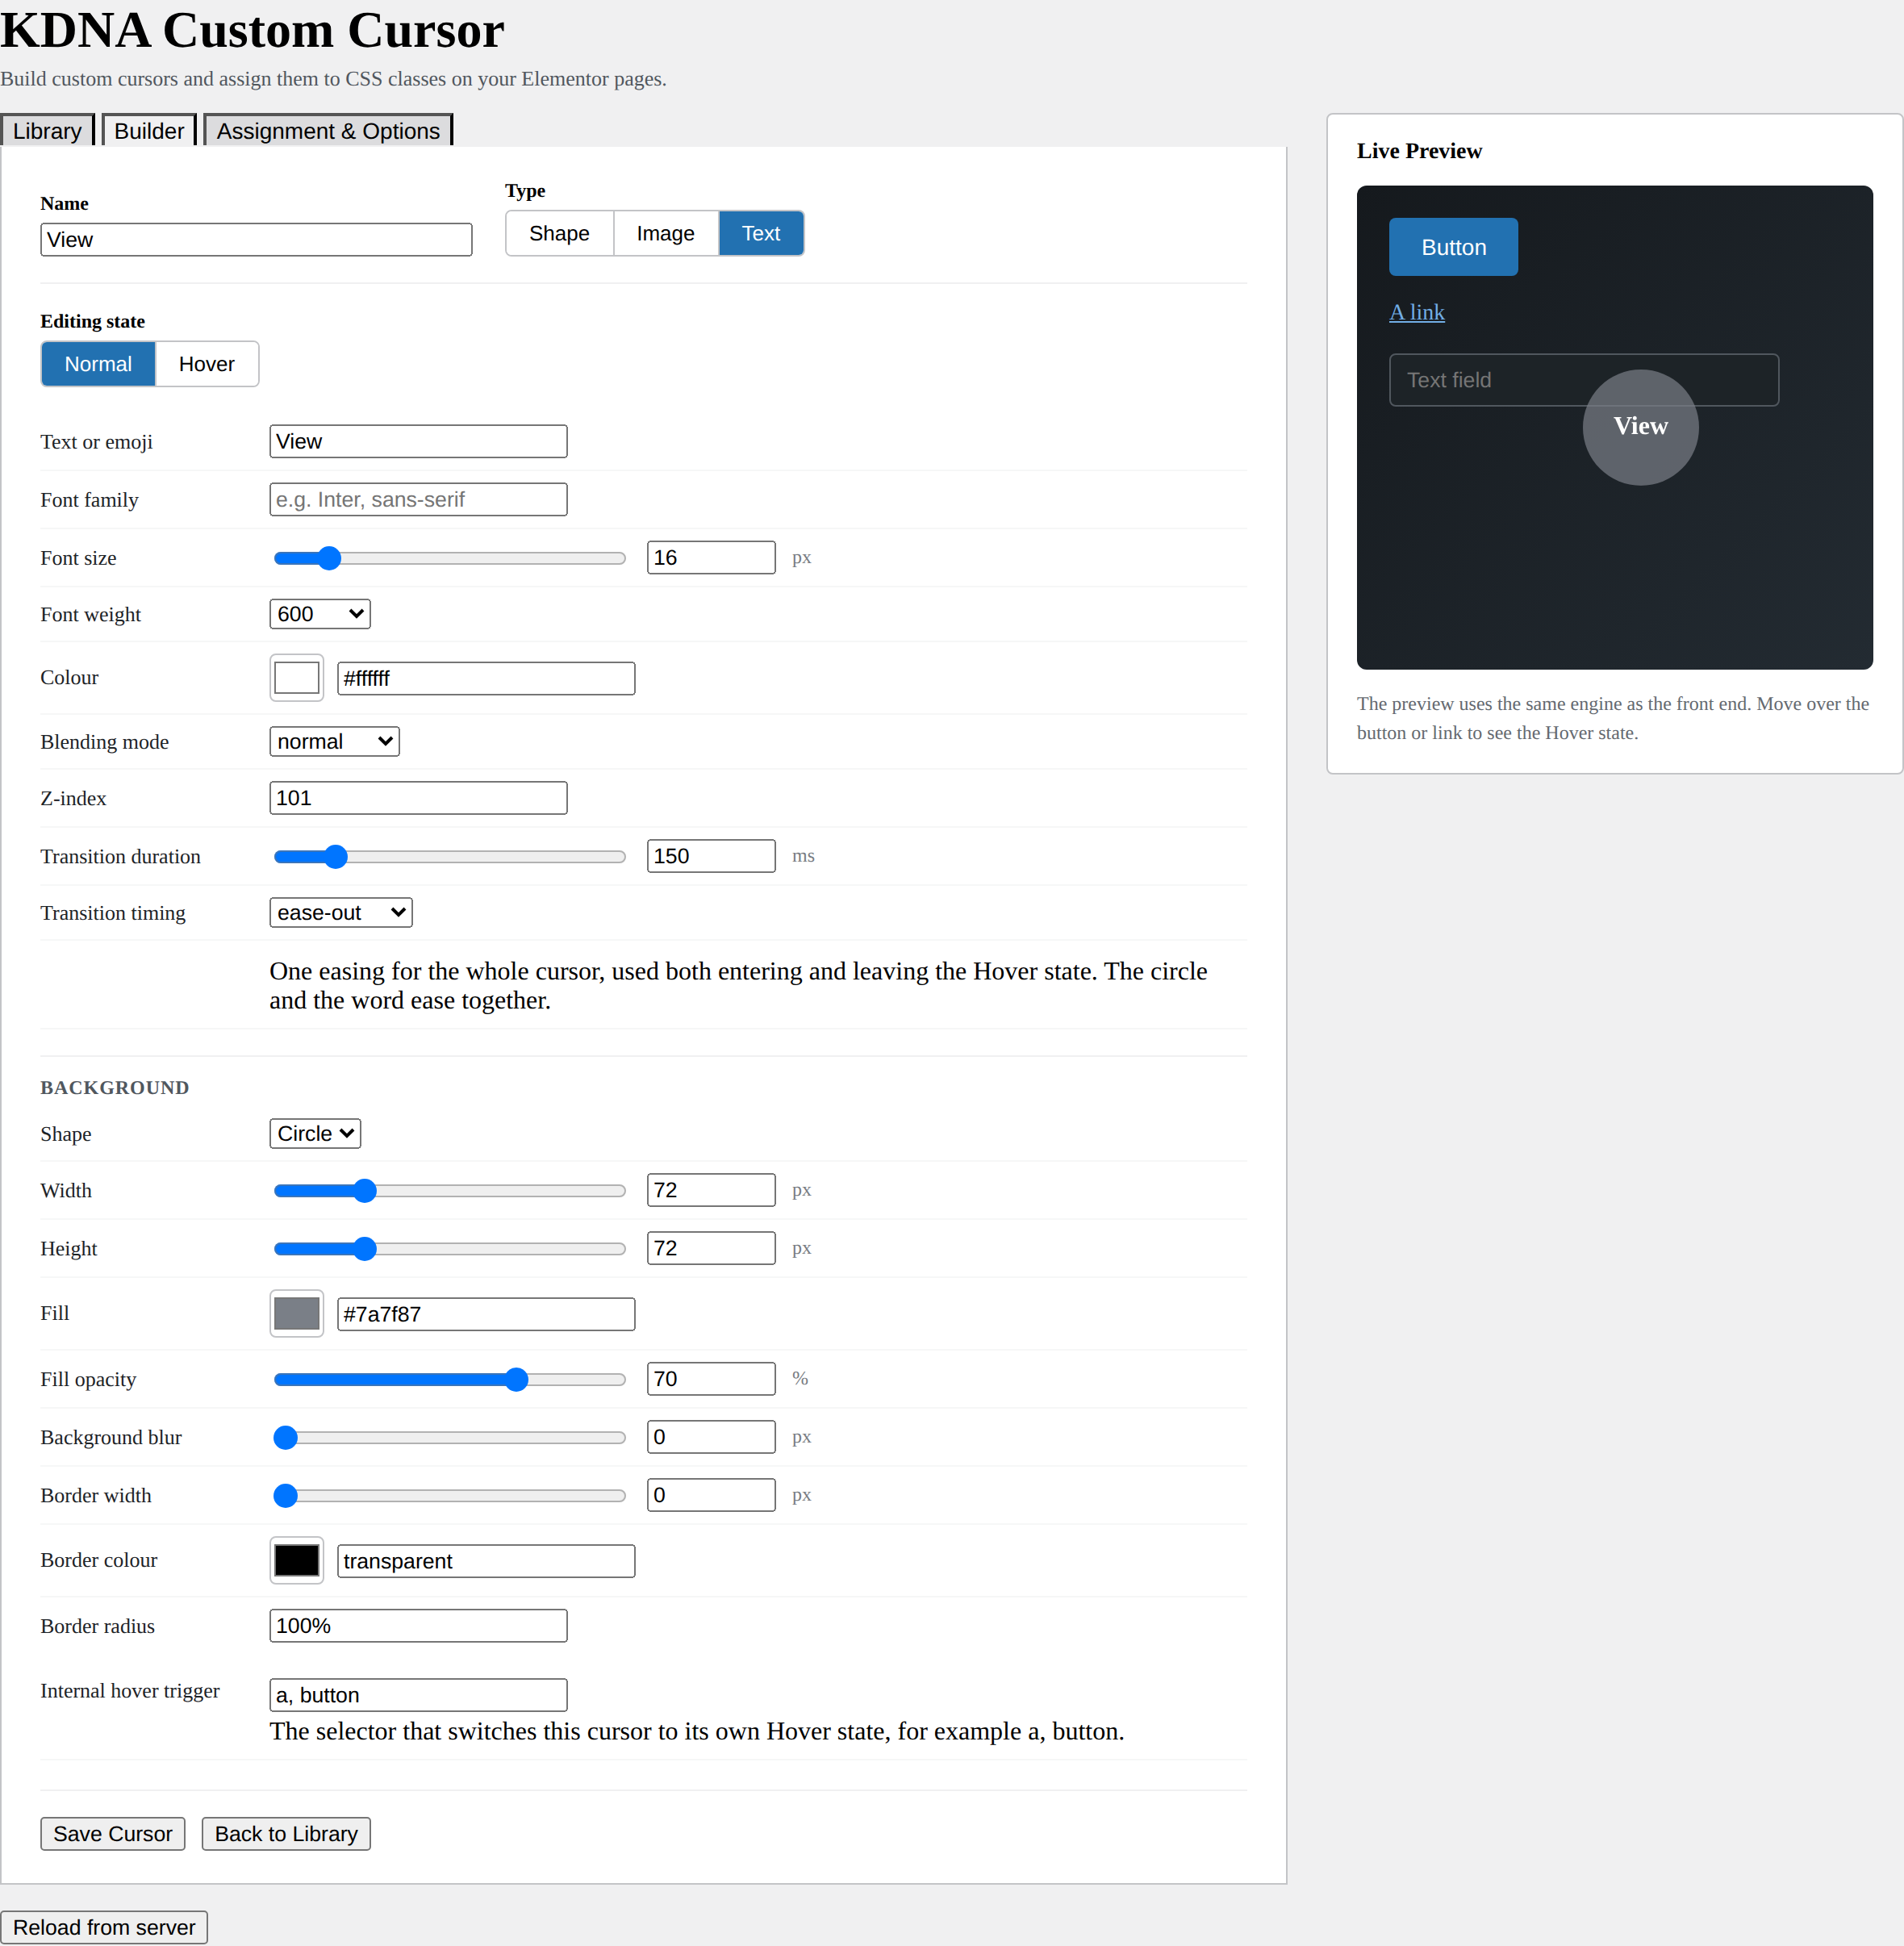
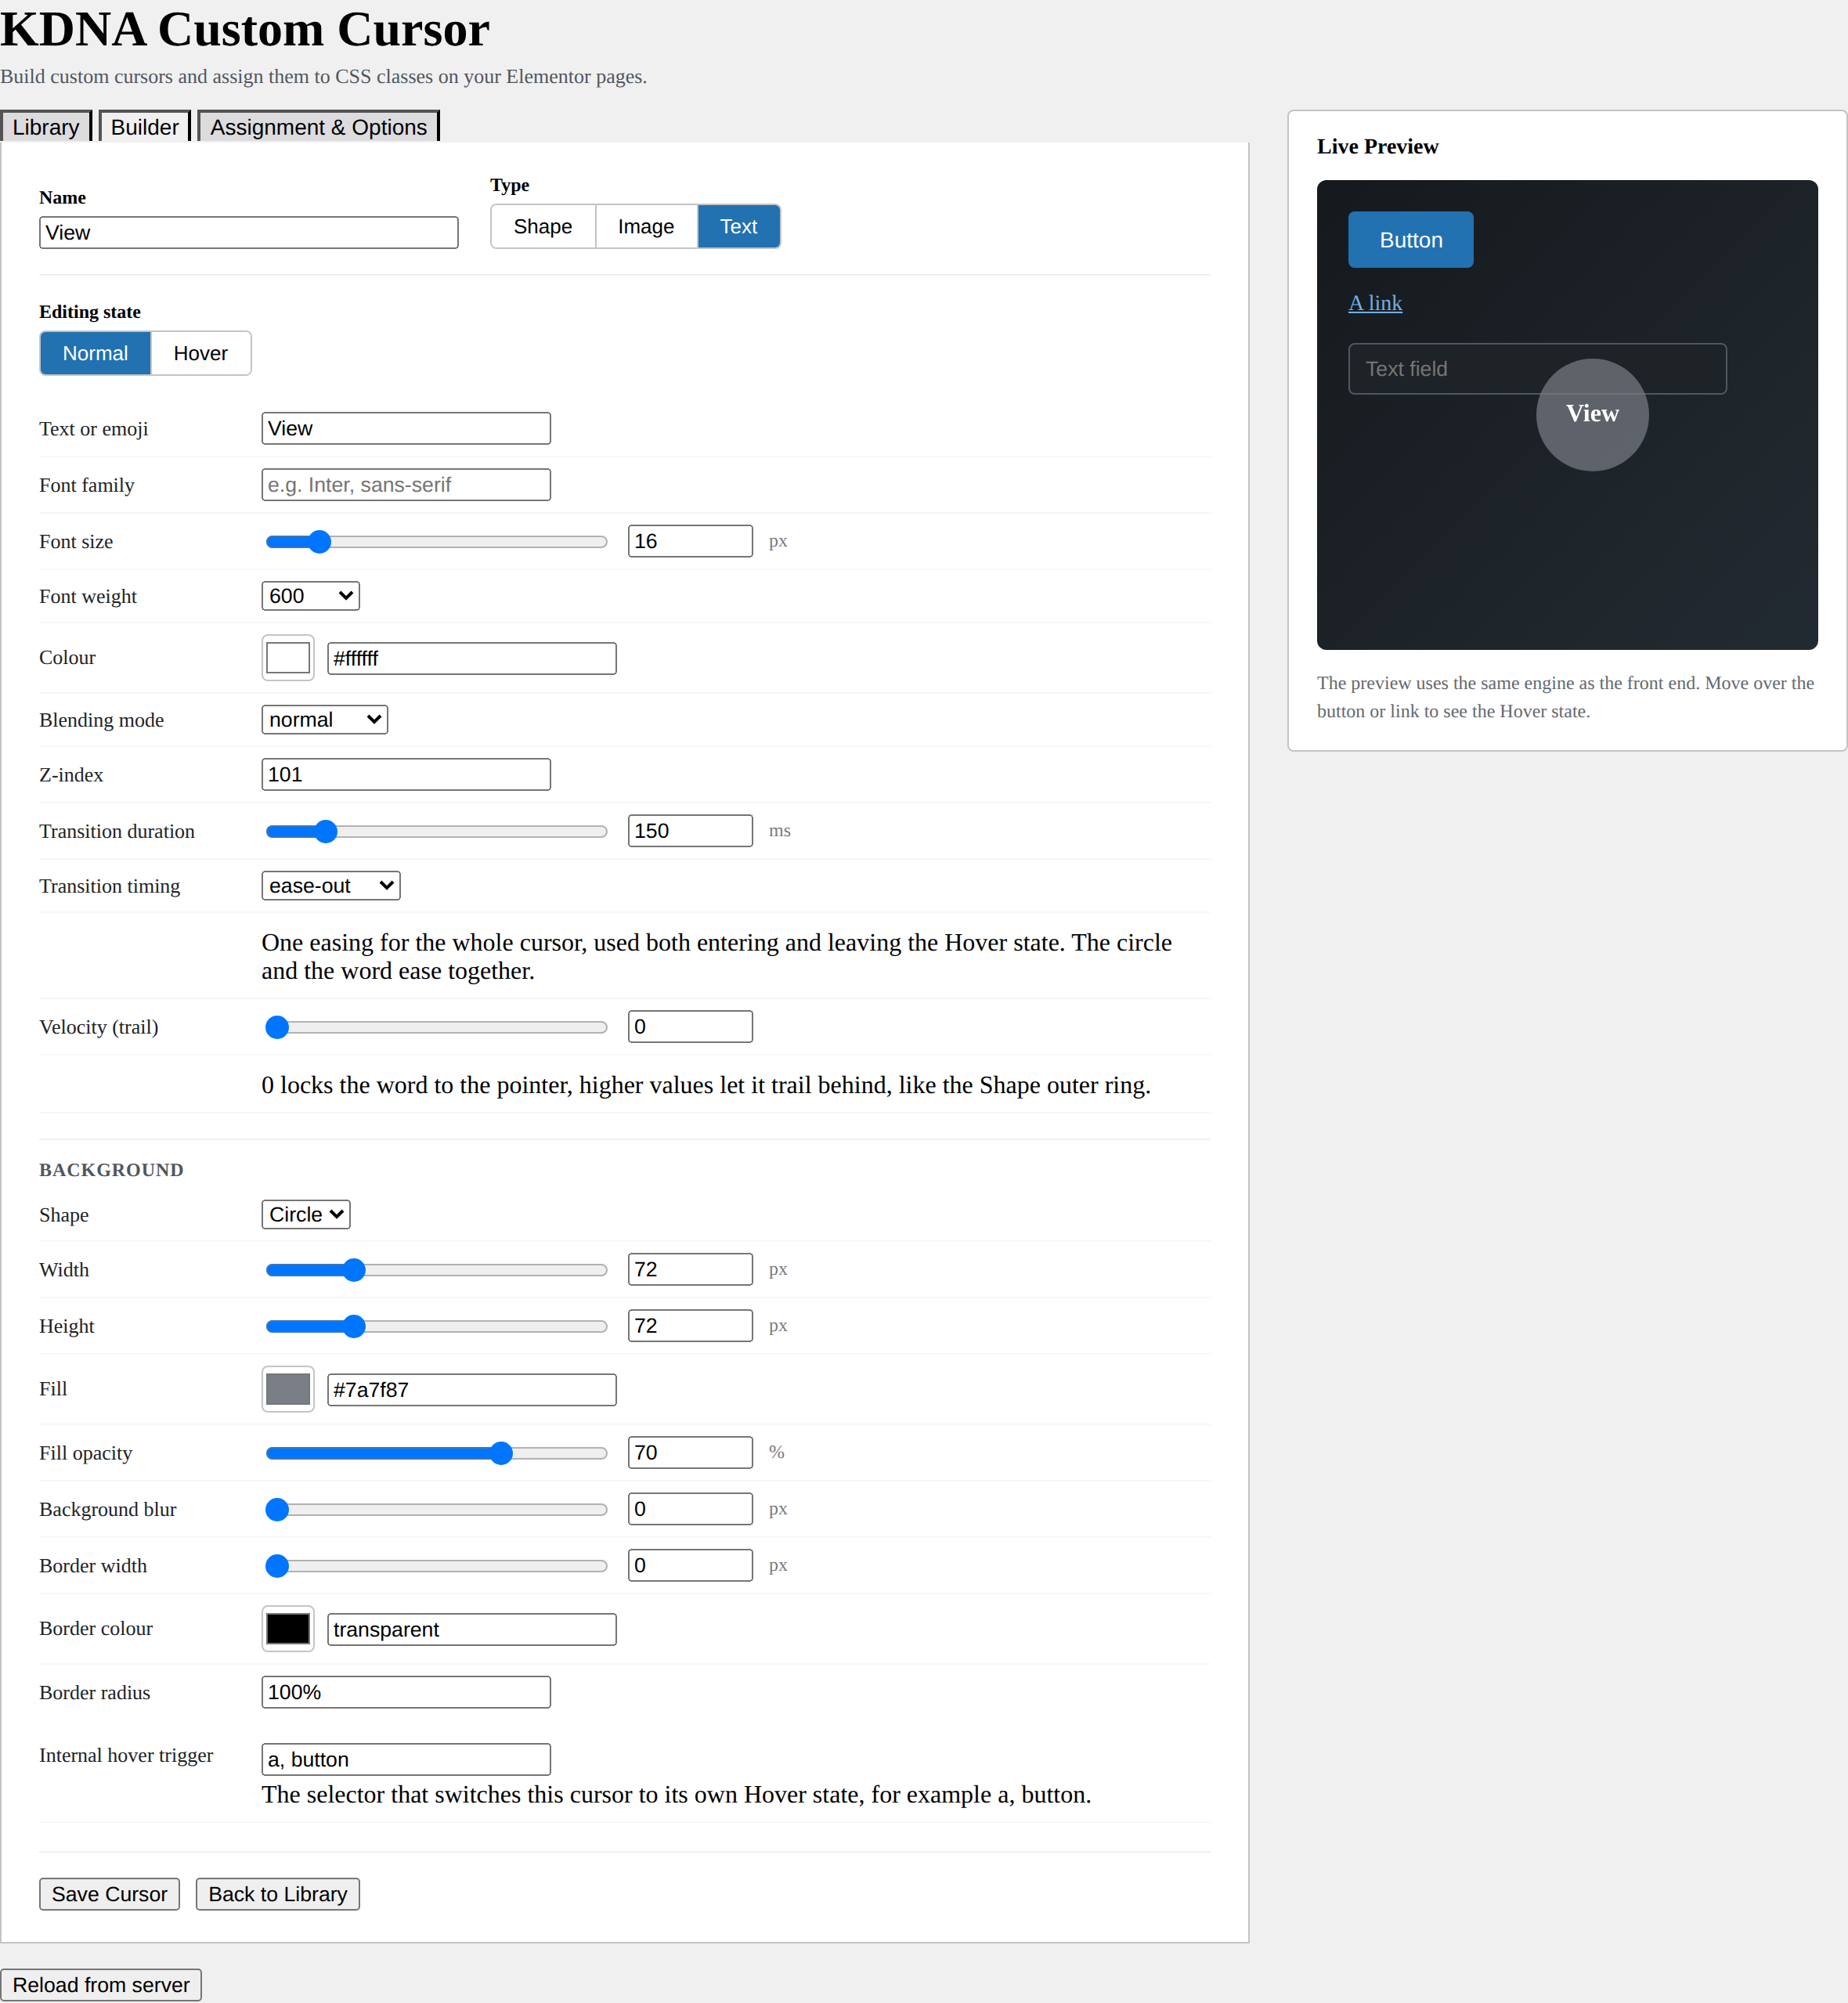
v1.0.4: add Velocity (trail) control to Text and Image cursors
Text and Image cursors gain a Velocity (trail) slider so the word, emoji
or image can lag behind the pointer and catch up, the same trailing
effect the Shape outer ring has. It runs through the existing single
requestAnimationFrame loop and LERP smoothing, and is taken from the
cursor's base state so it is one setting for the whole cursor. A velocity
of 0 keeps the old behaviour, locking the cursor to the pointer.

This answers why a Text cursor with a transition still tracked the
pointer exactly: the transition only eases the size and colour change
between the Normal and Hover states, never the position, so a trail needs
its own control rather than a longer transition.

- engine: ImageCursor and TextCursor place() now follow the smoothed
  (ox, oy) point and read velocity from the base block
- data: sanitise and clamp velocity (0..1) on image and text blocks
- admin: velocity defaults, ensureDefaults backfill, and a stepped
  slider bound to the base block in both builders
- docs: guide steps, control reference, regenerated images and PDF
- bump to 1.0.4, README changelog, refreshed plugin zip

Claude-Session: https://claude.ai/code/session_01XzaF5q1ByyvoBwvpuaazcC

diff --git a/kdna-custom-cursor/assets/js/kdna-cc-engine.js b/kdna-custom-cursor/assets/js/kdna-cc-engine.js
@@ -434,7 +434,7 @@
 		this.img.style.display = 'block';
 		root.appendChild( this.img );
 
-		// Image cursors lock to the pointer, there is no trailing ring.
+		// Trail amount. 0 locks to the pointer, higher values lag behind it.
 		this.velocity = 0;
 	}
 
@@ -455,18 +455,23 @@
 		// the hover in and the hover out use the same easing.
 		var base = cursor.image || {};
 		applyTransition( this.img, base.transitionDuration, base.transitionTiming, IMAGE_TRANSITION_PROPS );
-		this.velocity = 0;
+		// Trail amount, taken from the base block. 0 locks to the pointer.
+		this.velocity = clamp( base.velocity, 0, 1 );
 	};
 
 	/**
-	 * Position the image at the pointer.
+	 * Position the image. It follows the trailing point so a velocity above 0
+	 * lets it lag behind the pointer, like the Shape outer ring. The first two
+	 * arguments are the raw pointer, the second two are the smoothed point.
 	 *
-	 * @param {number} px Pointer x.
-	 * @param {number} py Pointer y.
+	 * @param {number} tx Pointer x.
+	 * @param {number} ty Pointer y.
+	 * @param {number} ox Trailing x.
+	 * @param {number} oy Trailing y.
 	 * @return {void}
 	 */
-	ImageCursor.prototype.place = function ( px, py ) {
-		this.img.style.transform = 'translate(' + px + 'px,' + py + 'px) translate(-50%, -50%)';
+	ImageCursor.prototype.place = function ( tx, ty, ox, oy ) {
+		this.img.style.transform = 'translate(' + ox + 'px,' + oy + 'px) translate(-50%, -50%)';
 	};
 
 	/**
@@ -512,7 +517,7 @@
 		this.el.style.display = 'inline-flex';
 		root.appendChild( this.el );
 
-		// Text cursors lock to the pointer, there is no trailing ring.
+		// Trail amount. 0 locks to the pointer, higher values lag behind it.
 		this.velocity = 0;
 	}
 
@@ -534,18 +539,23 @@
 		// the word ease together.
 		var base = cursor.text || {};
 		applyTransition( this.el, base.transitionDuration, base.transitionTiming, TEXT_TRANSITION_PROPS );
-		this.velocity = 0;
+		// Trail amount, taken from the base block. 0 locks to the pointer.
+		this.velocity = clamp( base.velocity, 0, 1 );
 	};
 
 	/**
-	 * Position the text at the pointer.
+	 * Position the text. It follows the trailing point so a velocity above 0
+	 * lets it lag behind the pointer, like the Shape outer ring. The first two
+	 * arguments are the raw pointer, the second two are the smoothed point.
 	 *
-	 * @param {number} px Pointer x.
-	 * @param {number} py Pointer y.
+	 * @param {number} tx Pointer x.
+	 * @param {number} ty Pointer y.
+	 * @param {number} ox Trailing x.
+	 * @param {number} oy Trailing y.
 	 * @return {void}
 	 */
-	TextCursor.prototype.place = function ( px, py ) {
-		this.el.style.transform = 'translate(' + px + 'px,' + py + 'px) translate(-50%, -50%)';
+	TextCursor.prototype.place = function ( tx, ty, ox, oy ) {
+		this.el.style.transform = 'translate(' + ox + 'px,' + oy + 'px) translate(-50%, -50%)';
 	};
 
 	/**

diff --git a/kdna-custom-cursor/admin/js/kdna-cc-admin.js b/kdna-custom-cursor/admin/js/kdna-cc-admin.js
@@ -80,7 +80,7 @@
 	 * @return {Object} The default image block.
 	 */
 	function defaultImageBlock() {
-		return { url: '', attachmentId: 0, width: 40, height: 40, blendMode: 'normal', zIndex: 100, transitionDuration: 150, transitionTiming: 'ease-out' };
+		return { url: '', attachmentId: 0, width: 40, height: 40, blendMode: 'normal', zIndex: 100, transitionDuration: 150, transitionTiming: 'ease-out', velocity: 0 };
 	}
 
 	/**
@@ -91,7 +91,7 @@
 	function defaultTextBlock() {
 		return {
 			value: '', font: '', size: 16, color: '#ffffff', weight: 'normal',
-			blendMode: 'normal', zIndex: 100, transitionDuration: 150, transitionTiming: 'ease-out',
+			blendMode: 'normal', zIndex: 100, transitionDuration: 150, transitionTiming: 'ease-out', velocity: 0,
 			background: { shape: 'none', width: 70, height: 70, fill: '#808080', fillOpacity: 100, backdropBlur: 0, borderWidth: 0, borderColor: 'transparent', borderRadius: '100%' }
 		};
 	}
@@ -148,6 +148,9 @@
 			}
 			if ( ! block.transitionTiming ) {
 				block.transitionTiming = 'ease-out';
+			}
+			if ( block.velocity === undefined || block.velocity === null ) {
+				block.velocity = 0;
 			}
 			if ( block.background ) {
 				if ( block.background.fillOpacity === undefined || block.background.fillOpacity === null ) {

diff --git a/kdna-custom-cursor/admin/admin-page.php b/kdna-custom-cursor/admin/admin-page.php
@@ -26,20 +26,21 @@ if ( ! function_exists( 'kdna_cc_slider' ) ) {
  * is an Alpine expression that resolves to the value, for example
  * stateBlock().width or stateBlock().background.height.
  *
- * @param string $label The control label.
- * @param string $path  The Alpine expression for the bound value.
- * @param int    $max   The slider maximum.
- * @param string $unit  The unit label shown after the inputs.
+ * @param string    $label The control label.
+ * @param string    $path  The Alpine expression for the bound value.
+ * @param int       $max   The slider maximum.
+ * @param string    $unit  The unit label shown after the inputs.
+ * @param int|float $step  The slider step, 1 by default, smaller for fine values.
  * @return void
  */
-function kdna_cc_slider( $label, $path, $max, $unit = 'px' ) {
+function kdna_cc_slider( $label, $path, $max, $unit = 'px', $step = 1 ) {
 	?>
 	<div class="kdna-cc-control">
 		<label class="kdna-cc-control-label"><?php echo esc_html( $label ); ?></label>
 		<div class="kdna-cc-control-input">
 			<div class="kdna-cc-range">
-				<input type="range" min="0" max="<?php echo esc_attr( $max ); ?>" step="1" x-model.number="<?php echo esc_attr( $path ); ?>">
-				<input type="number" class="small-text" min="0" max="<?php echo esc_attr( $max ); ?>" x-model.number="<?php echo esc_attr( $path ); ?>">
+				<input type="range" min="0" max="<?php echo esc_attr( $max ); ?>" step="<?php echo esc_attr( $step ); ?>" x-model.number="<?php echo esc_attr( $path ); ?>">
+				<input type="number" class="small-text" min="0" max="<?php echo esc_attr( $max ); ?>" step="<?php echo esc_attr( $step ); ?>" x-model.number="<?php echo esc_attr( $path ); ?>">
 				<span class="kdna-cc-unit"><?php echo esc_html( $unit ); ?></span>
 			</div>
 		</div>
@@ -344,6 +345,13 @@ function kdna_cc_select( $label, $path, $options ) {
 											<p class="description"><?php esc_html_e( 'One easing for the whole cursor, used both entering and leaving the Hover state.', 'kdna-custom-cursor' ); ?></p>
 										</div>
 									</div>
+									<?php kdna_cc_slider( __( 'Velocity (trail)', 'kdna-custom-cursor' ), 'editing.image.velocity', 1, '', 0.01 ); ?>
+									<div class="kdna-cc-control">
+										<span class="kdna-cc-control-label"></span>
+										<div class="kdna-cc-control-input">
+											<p class="description"><?php esc_html_e( '0 locks the image to the pointer, higher values let it trail behind, like the Shape outer ring.', 'kdna-custom-cursor' ); ?></p>
+										</div>
+									</div>
 								</div>
 							</template>
 
@@ -393,6 +401,13 @@ function kdna_cc_select( $label, $path, $options ) {
 										<span class="kdna-cc-control-label"></span>
 										<div class="kdna-cc-control-input">
 											<p class="description"><?php esc_html_e( 'One easing for the whole cursor, used both entering and leaving the Hover state. The circle and the word ease together.', 'kdna-custom-cursor' ); ?></p>
+										</div>
+									</div>
+									<?php kdna_cc_slider( __( 'Velocity (trail)', 'kdna-custom-cursor' ), 'editing.text.velocity', 1, '', 0.01 ); ?>
+									<div class="kdna-cc-control">
+										<span class="kdna-cc-control-label"></span>
+										<div class="kdna-cc-control-input">
+											<p class="description"><?php esc_html_e( '0 locks the word to the pointer, higher values let it trail behind, like the Shape outer ring.', 'kdna-custom-cursor' ); ?></p>
 										</div>
 									</div>
 

diff --git a/kdna-custom-cursor/kdna-custom-cursor.php b/kdna-custom-cursor/kdna-custom-cursor.php
@@ -3,7 +3,7 @@
  * Plugin Name:       KDNA Custom Cursor
  * Plugin URI:        https://krulldna.com/
  * Description:       Build custom animated cursors in the WordPress admin and assign them to specific CSS classes on your Elementor pages, with an optional site-wide global cursor.
- * Version:           1.0.3
+ * Version:           1.0.4
  * Requires at least: 6.0
  * Requires PHP:      7.4
  * Author:            KDNA
@@ -25,7 +25,7 @@ if ( ! defined( 'ABSPATH' ) ) {
 }
 
 // Plugin version. Kept in one place so assets and the readme stay in step.
-define( 'KDNA_CC_VERSION', '1.0.3' );
+define( 'KDNA_CC_VERSION', '1.0.4' );
 
 // Absolute path to this main plugin file.
 define( 'KDNA_CC_FILE', __FILE__ );

diff --git a/kdna-custom-cursor/includes/class-kdna-cc-data.php b/kdna-custom-cursor/includes/class-kdna-cc-data.php
@@ -377,6 +377,7 @@ class KDNA_CC_Data {
 			'zIndex'             => (int) self::sanitize_number( $raw, 'zIndex', 100, 0, 2147483647 ),
 			'transitionDuration' => (int) self::sanitize_number( $raw, 'transitionDuration', 150, 0, 5000 ),
 			'transitionTiming'   => self::sanitize_enum( $raw, 'transitionTiming', self::timings(), 'ease-out' ),
+			'velocity'           => self::clamp_float( isset( $raw['velocity'] ) ? $raw['velocity'] : 0, 0, 1 ),
 		);
 	}
 
@@ -404,6 +405,7 @@ class KDNA_CC_Data {
 			'zIndex'             => (int) self::sanitize_number( $raw, 'zIndex', 100, 0, 2147483647 ),
 			'transitionDuration' => (int) self::sanitize_number( $raw, 'transitionDuration', 150, 0, 5000 ),
 			'transitionTiming'   => self::sanitize_enum( $raw, 'transitionTiming', self::timings(), 'ease-out' ),
+			'velocity'           => self::clamp_float( isset( $raw['velocity'] ) ? $raw['velocity'] : 0, 0, 1 ),
 			'background'         => array(
 				'shape'        => self::sanitize_enum( $bg, 'shape', self::background_shapes(), 'none' ),
 				'width'        => self::sanitize_number( $bg, 'width', 70, 0, 2000 ),

diff --git a/docs/USER-GUIDE.md b/docs/USER-GUIDE.md
@@ -2,7 +2,7 @@
 
 ### User Guide
 
-Version 1.0.3
+Version 1.0.4
 
 A custom cursor builder for WordPress and Elementor, with a per-class assignment model. Build animated mouse cursors in the WordPress admin and assign them to specific CSS classes on your pages, with an optional site-wide global cursor.
 
@@ -63,7 +63,7 @@ There is no build step, no npm, and no dependency on WooCommerce. The admin uses
 ## 3. Installing and activating
 
 1. In the WordPress admin go to **Plugins**, then **Add New**, then **Upload Plugin**.
-2. Choose the file `kdna-custom-cursor-1.0.3.zip` and select **Install Now**.
+2. Choose the file `kdna-custom-cursor-1.0.4.zip` and select **Install Now**.
 3. Select **Activate**.
 4. Open **Settings**, then **KDNA Custom Cursor** to start building.
 
@@ -147,7 +147,8 @@ To build a View label:
 7. For a frosted glass look, raise the **Background blur** slider. It blurs the page behind the circle or pill, and reads best with a Fill opacity below `100`.
 8. Optionally add a **Border width** and **Border colour**, and adjust the **Border radius**. A circle uses `100%`. For a pill, use a wider Width than Height and a large radius.
 9. Set the **Transition duration** and **Transition timing** to control how smoothly the cursor eases between its Normal and Hover states. This is one setting for the whole cursor, used in both directions, and the circle and the word ease together.
-10. Name it **View** and select **Save Cursor**.
+10. Set **Velocity (trail)** to choose how the label follows the pointer. `0` locks it to the pointer, higher values let it lag behind and catch up, the same trailing effect the Shape outer ring has. This is the control to use when you want a Text or Image cursor to trail rather than track exactly. The transition controls above only ease the change between the Normal and Hover states, never the position, so a trail needs this control rather than a longer transition.
+11. Name it **View** and select **Save Cursor**.
 
 To make the matching **Scroll** cursor, the quickest route is to **Duplicate** the View cursor in the Library, then change its text to `Scroll`. The two starter presets already include both.
 
@@ -168,7 +169,8 @@ To build one:
 3. Set the **Width** and **Height**. SVGs scale crisply at any size.
 4. Optionally set a **Blending mode** and a **Z-index**.
 5. Set the **Transition duration** and **Transition timing** to ease the change between the Normal and Hover states. This is one setting for the whole cursor, used in both directions.
-6. Name it and select **Save Cursor**.
+6. Set **Velocity (trail)** to choose how the image follows the pointer. `0` locks it to the pointer, higher values let it lag behind and catch up, like the Shape outer ring.
+7. Name it and select **Save Cursor**.
 
 Use **Remove image** to clear the current picture and pick another. Transparent PNGs and SVGs work best, since the area around the artwork stays see-through.
 
@@ -203,7 +205,7 @@ The Shape builder exposes the full set of controls for the inner and the outer l
 | Border radius | inner, outer, text background | `100%` gives a circle, or a pixel value |
 | Transition duration and timing | all types | Milliseconds, with ease, ease-out, ease-in-out or linear |
 | Blending mode | all | normal, difference, multiply, screen or exclusion |
-| Velocity (trail) | outer | `0` locks to the pointer, higher gives more lag |
+| Velocity (trail) | outer, image, text | `0` locks to the pointer, higher gives more lag and a longer trail |
 | Z-index | all | Stacking order, default 100 for inner and 101 for outer |
 | Backdrop filter | shape layers | Optional, for example `blur(2px)` |
 
@@ -393,4 +395,4 @@ To remove the plugin completely, delete it from the **Plugins** screen. Deletion
 
 ---
 
-*KDNA Custom Cursor, version 1.0.3. Built for WordPress and Elementor.*
+*KDNA Custom Cursor, version 1.0.4. Built for WordPress and Elementor.*